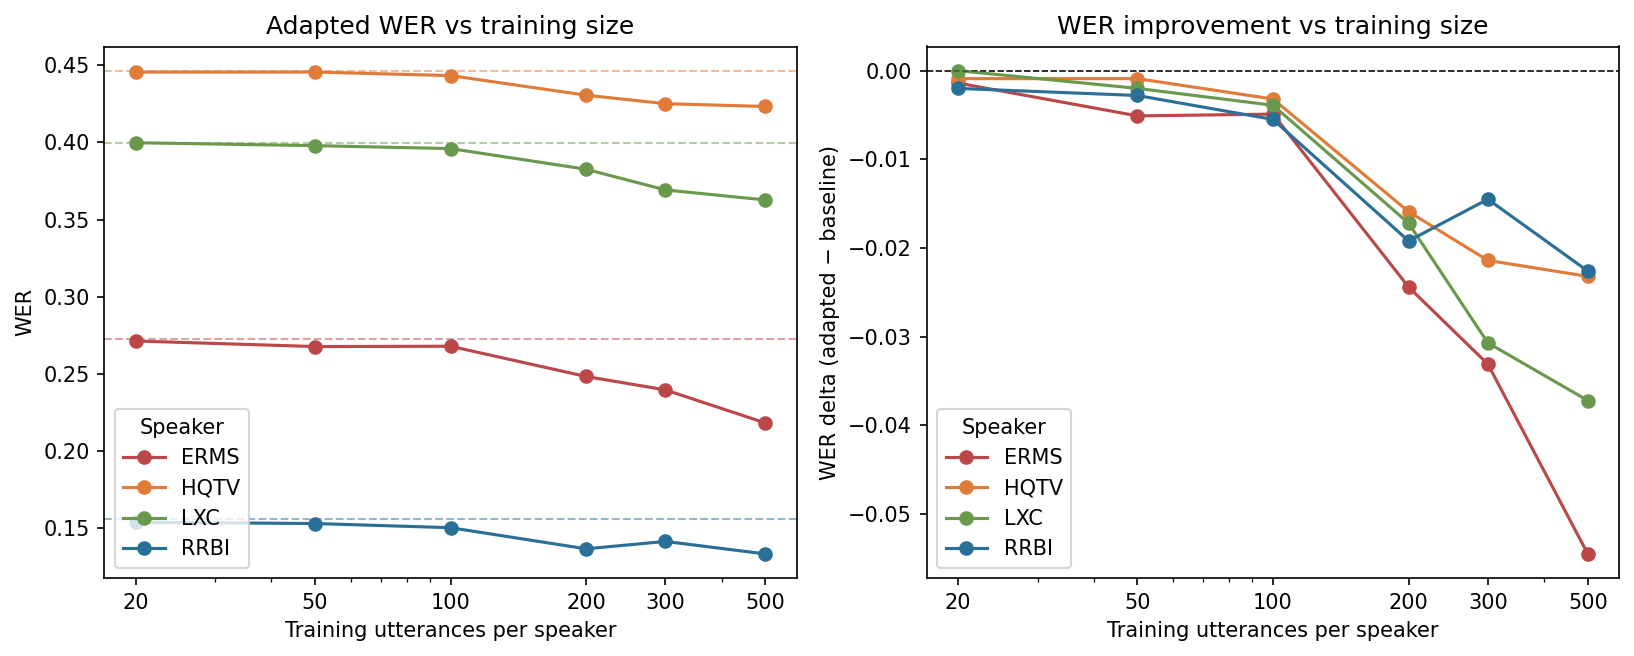
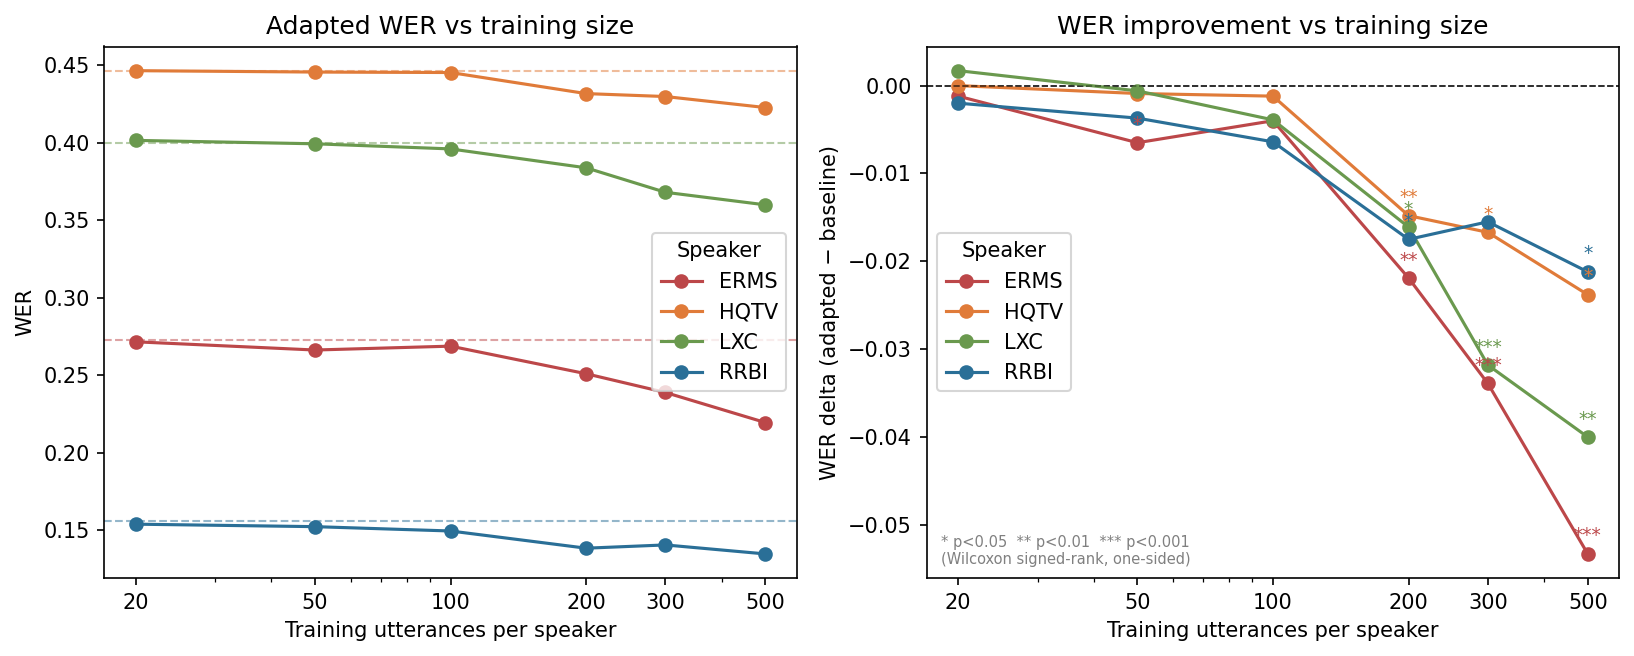
Size sweep (#54)
* #43 Data size sweep
- check how many speaker utterances are required to significantly improve the ASR system for 4 chosen speakers: RRBI, ERMS, LXC, HQTV

* #43 Data size sweep
- change partition to gpu_short

* #43 Data size sweep
- slurm: fix the path to the uv env

* #43 Data size sweep
- slurm: fix the path to the uv env

* #43 Data size sweep
- fix slurm job

* #43 Data size sweep
- request a100 GPU explicitly
- fix comments

* #43 Data size sweep
- plot the graphs to show the WER improvement based on the data sweep

* #43 Data size sweep: save per-utterance WER for significance testing

* #43 Data size sweep: save per-utterance WER for significance testing
- save the produced plot
- fix docstring

Pull request: Size sweep

diff --git a/src/asr_adaptation/plots/plot_data_size.py b/src/asr_adaptation/plots/plot_data_size.py
@@ -4,10 +4,11 @@ import argparse
 import csv
 from collections import defaultdict
 from pathlib import Path
-from typing import Dict, List
+from typing import Dict, List, Optional
 
 import matplotlib.pyplot as plt
 import numpy as np
+from scipy.stats import wilcoxon
 
 SPEAKER_COLORS = {
     "RRBI": "#2A6F97",
@@ -20,12 +21,14 @@ SPEAKER_COLORS = {
 def _load_results(results_dir: Path) -> Dict[str, List[dict]]:
     by_speaker: Dict[str, List[dict]] = defaultdict(list)
     for path in sorted(results_dir.glob("*_seed*.csv")):
+        if "_utterances" in path.name:
+            continue
         with path.open(newline="", encoding="utf-8") as f:
             for row in csv.DictReader(f):
                 by_speaker[row["speaker_id"]].append(
                     {
-                        "n_train":     int(row["n_train"]),
-                        "seed":        int(row["seed"]),
+                        "n_train":      int(row["n_train"]),
+                        "seed":         int(row["seed"]),
                         "wer_baseline": float(row["wer_baseline"]),
                         "wer_adapted":  float(row["wer_adapted"]),
                         "wer_delta":    float(row["wer_delta"]),
@@ -34,6 +37,34 @@ def _load_results(results_dir: Path) -> Dict[str, List[dict]]:
     for rows in by_speaker.values():
         rows.sort(key=lambda r: (r["n_train"], r["seed"]))
     return dict(by_speaker)
+
+
+def _load_utterances(results_dir: Path) -> Dict[str, Dict[tuple, list]]:
+    """Load per-utterance WER files. Returns {speaker: {(n_train, seed): [rows]}}."""
+    by_speaker: Dict[str, Dict[tuple, list]] = defaultdict(lambda: defaultdict(list))
+    for path in sorted(results_dir.glob("*_utterances.csv")):
+        with path.open(newline="", encoding="utf-8") as f:
+            for row in csv.DictReader(f):
+                key = (int(row["n_train"]), int(row["seed"]))
+                by_speaker[row["speaker_id"]][key].append(
+                    {
+                        "wer_baseline": float(row["wer_baseline"]),
+                        "wer_adapted":  float(row["wer_adapted"]),
+                    }
+                )
+    return dict(by_speaker)
+
+
+def _pvalue(utterance_rows: list) -> Optional[float]:
+    baseline = [r["wer_baseline"] for r in utterance_rows]
+    adapted  = [r["wer_adapted"]  for r in utterance_rows]
+    diffs = [a - b for a, b in zip(adapted, baseline)]
+    if all(d == 0 for d in diffs):
+        return 1.0
+    try:
+        return wilcoxon(diffs, alternative="less").pvalue
+    except ValueError:
+        return None
 
 
 def _aggregate(rows: List[dict]) -> tuple[np.ndarray, np.ndarray, np.ndarray, np.ndarray]:
@@ -48,10 +79,23 @@ def _aggregate(rows: List[dict]) -> tuple[np.ndarray, np.ndarray, np.ndarray, np
     return ns, baseline, adapted, delta
 
 
+def _sig_label(p: float) -> str:
+    if p < 0.001:
+        return "***"
+    if p < 0.01:
+        return "**"
+    if p < 0.05:
+        return "*"
+    return ""
+
+
 def plot(results_dir: Path, output_path: Path) -> None:
     data = _load_results(results_dir)
     if not data:
         raise FileNotFoundError(f"No result CSVs found in {results_dir}")
+
+    utterances = _load_utterances(results_dir)
+    has_utterances = bool(utterances)
 
     fig, (ax_wer, ax_delta) = plt.subplots(1, 2, figsize=(11, 4.5))
 
@@ -64,6 +108,29 @@ def plot(results_dir: Path, output_path: Path) -> None:
 
         ax_delta.axhline(0, color="black", linewidth=0.8, linestyle="--", alpha=0.4)
         ax_delta.plot(ns, delta, marker="o", color=color, label=speaker)
+
+        if has_utterances and speaker in utterances:
+            spk_utts = utterances[speaker]
+            for i, n in enumerate(ns):
+                # pool utterances across all seeds for this n_train
+                pooled = [r for (n_t, _), rows_u in spk_utts.items()
+                          if n_t == n for r in rows_u]
+                if not pooled:
+                    continue
+                p = _pvalue(pooled)
+                if p is None:
+                    continue
+                label = _sig_label(p)
+                if label:
+                    ax_delta.annotate(
+                        label,
+                        xy=(n, delta[i]),
+                        xytext=(0, 6),
+                        textcoords="offset points",
+                        ha="center",
+                        color=color,
+                        fontsize=9,
+                    )
 
     ax_wer.set_xlabel("Training utterances per speaker")
     ax_wer.set_ylabel("WER")
@@ -80,6 +147,12 @@ def plot(results_dir: Path, output_path: Path) -> None:
     ax_delta.set_xticks(ns)
     ax_delta.set_xticklabels(ns)
     ax_delta.legend(title="Speaker")
+    if has_utterances:
+        ax_delta.annotate(
+            "* p<0.05  ** p<0.01  *** p<0.001\n(Wilcoxon signed-rank, one-sided)",
+            xy=(0.02, 0.02), xycoords="axes fraction",
+            fontsize=7, color="gray", va="bottom",
+        )
 
     fig.tight_layout()
     output_path.parent.mkdir(parents=True, exist_ok=True)

diff --git a/src/asr_adaptation/pipeline/data_size_analysis.py b/src/asr_adaptation/pipeline/data_size_analysis.py
@@ -27,8 +27,11 @@ def run_data_size_single(
     Reuses run_lora_train() and saves a single-row CSV so that parallel
     SLURM jobs never write to the same file at the same time.
 
-    Output file: {output_dir}/{speaker_id}_{n_train:04d}_seed{seed}.csv
-    Columns: speaker_id, n_train, seed, wer_baseline, wer_adapted, wer_delta
+    Output files:
+      {output_dir}/{speaker_id}_{n_train:04d}_seed{seed}.csv
+        Columns: speaker_id, n_train, seed, wer_baseline, wer_adapted, wer_delta
+      {output_dir}/{speaker_id}_{n_train:04d}_seed{seed}_utterances.csv
+        Columns: speaker_id, n_train, seed, utterance_id, wer_baseline, wer_adapted
 
     Args:
         speaker_id: L2-ARCTIC speaker ID, e.g. "ABA".
@@ -39,7 +42,7 @@ def run_data_size_single(
         cache_dir: HuggingFace model cache directory.
 
     Returns:
-        Path to the saved CSV file.
+        Path to the saved aggregate CSV file.
     """
     output_dir = Path(output_dir)
     output_dir.mkdir(parents=True, exist_ok=True)
@@ -76,8 +79,28 @@ def run_data_size_single(
                 wer_delta=round(avg_adapted - avg_baseline, 4),
             )
         )
-
     logger.info(f"Saved → {out_path}")
+
+    utt_path = output_dir / f"{speaker_id}_{n_train:04d}_seed{seed}_utterances.csv"
+    with open(utt_path, "w", newline="", encoding="utf-8") as f:
+        writer = csv.DictWriter(
+            f, fieldnames=["speaker_id", "n_train", "seed",
+                           "utterance_id", "wer_baseline", "wer_adapted"]
+        )
+        writer.writeheader()
+        for row in rows:
+            writer.writerow(
+                dict(
+                    speaker_id=speaker_id,
+                    n_train=n_train,
+                    seed=seed,
+                    utterance_id=row.utterance_id,
+                    wer_baseline=round(row.wer_baseline, 4),
+                    wer_adapted=round(row.wer_adapted, 4),
+                )
+            )
+    logger.info(f"Saved utterances → {utt_path}")
+
     return out_path
 
 